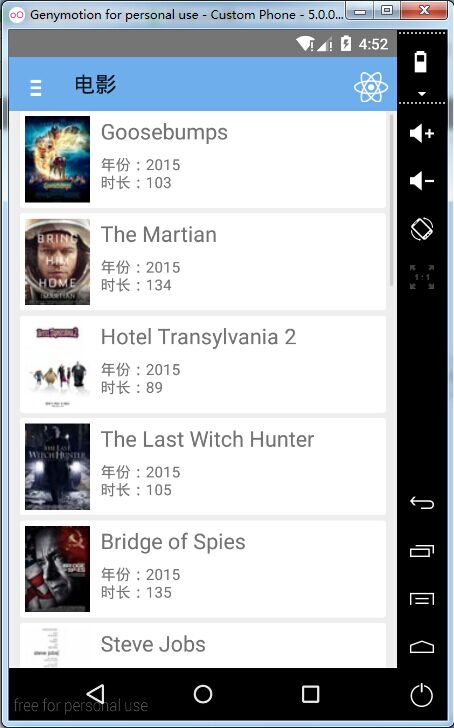
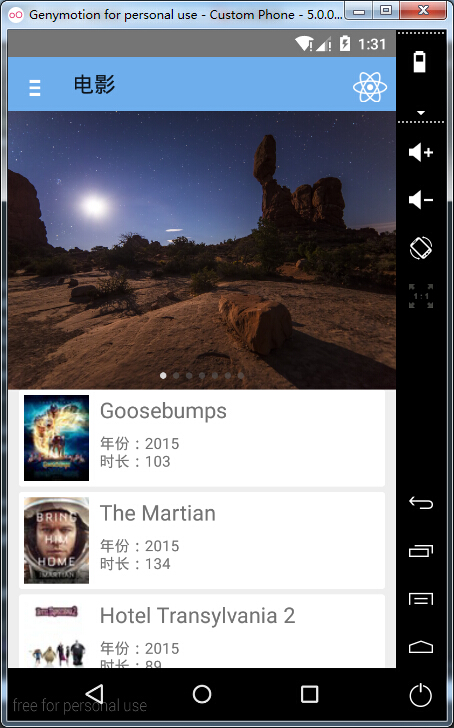
修改

diff --git a/NewsListSreen.js b/NewsListSreen.js
@@ -20,7 +20,6 @@ var {
 } = React;
 
 var DrawerScreen=require('./DrawerScreen');
-var ImageSlideScreen=require('./ImageSlideScreen');
 
 var NEWS_URL = 'http://jandan.net/?oxwlxojflwblxbsapi=get_recent_posts&include=url,date,tags,author,title,comment_count,custom_fields&custom_fields=thumb_c,views&dev=1&page=1';
 
@@ -127,7 +126,6 @@ render: function() {
                 navIcon={require('image!ic_drawer')}
                 onIconClicked ={() => this.drawer.openDrawer()}
                 style={styles.toobar}/>
-        <ImageSlideScreen styles={styles.imageSlide}/>
        {content}
     </DrawerLayoutAndroid>
   );
@@ -156,15 +154,15 @@ var styles = StyleSheet.create({
     backgroundColor:'#6FAEEC',
     height:50,
   },
-    newsrow:{
-        flex: 1,
-        flexDirection: 'row',
-        backgroundColor: '#FFFFFF',
-        marginBottom:5,
-        borderRadius:3,
-        marginLeft:10,
-        marginRight:10,
-        padding:5,
+  newsrow:{
+      flex: 1,
+      flexDirection: 'row',
+      backgroundColor: '#FFFFFF',
+      marginBottom:5,
+      borderRadius:3,
+      marginLeft:10,
+      marginRight:10,
+      padding:5,
     },
      rightContainer: {
         marginHorizontal:10
@@ -186,9 +184,6 @@ var styles = StyleSheet.create({
       textAlign:'center',
          flex: 1,
     },
-    imageSlide:{
-        height:50,
-    }
     
 });
 

diff --git a/MovieListScreen.js b/MovieListScreen.js
@@ -19,7 +19,6 @@ var {
     TouchableNativeFeedback,
 } = React;
 
-
 var API_KEY = '7waqfqbprs7pajbz28mqf6vz';
 var API_URL = 'http://api.rottentomatoes.com/api/public/v1.0/lists/movies/in_theaters.json';
 var PAGE_SIZE = 25;
@@ -27,6 +26,7 @@ var PARAMS = '?apikey=' + API_KEY + '&page_limit=' + PAGE_SIZE;
 var MOVIE_URL = API_URL + PARAMS;
 
 var DrawerScreen=require('./DrawerScreen');
+var ImageSlideScreen=require('./ImageSlideScreen');
 
 var MovieListScreen = React.createClass({
 
@@ -128,6 +128,7 @@ _renderRow:function(item: Object){
               navIcon={require('image!ic_drawer')}
               onIconClicked ={() => this.drawer.openDrawer()}
               style={styles.toobar}/>
+        <ImageSlideScreen/>
            {content}
     </DrawerLayoutAndroid>
     );
@@ -178,10 +179,11 @@ var styles = StyleSheet.create({
     backgroundColor:'#6FAEEC',
     height:50,
   },
-  loading:{
+   loading:{
       fontSize:24,
-      textAlign:'center'
-    }
+      textAlign:'center',
+       flex: 1,
+    },
 });
 
 module.exports = MovieListScreen;

diff --git a/readme.md b/readme.md
@@ -28,10 +28,10 @@
 
 
 ####解决问题：
-	ListView，Drawer，WebView，Navigate，AsyncStorage，splash animation
+	ListView，Drawer，WebView，Navigate，图片轮播,AsyncStorage，splash animation
 
 ####未解决问题：
-	图片轮播，下拉刷新，页面切换时的滑动效果
+	下拉刷新，页面切换时的滑动效果
 
 ----------
 
